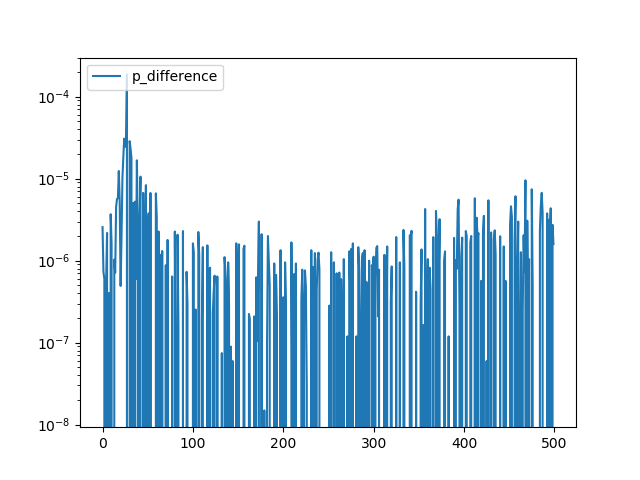
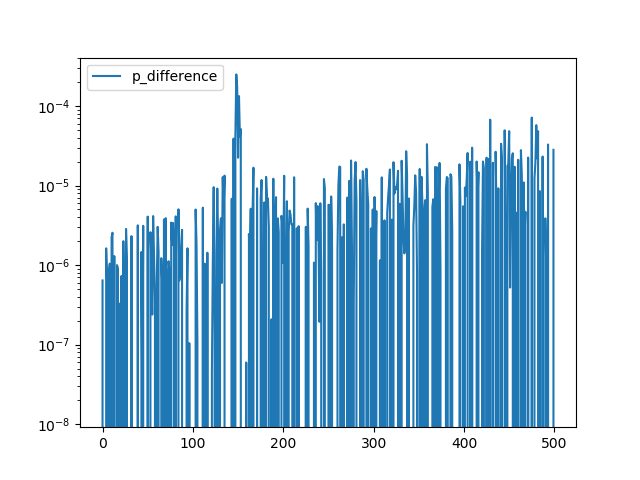
Loss has to be low

diff --git a/dynamics/correlation.py b/dynamics/correlation.py
@@ -10,8 +10,8 @@ N, D_in, H, D_out = 64, 1000, 100, 10
 y_size, x_size, mid_dim = 100, 100, 1000
 
 # Create random input and output data
-x = np.random.randn(x_size, 20)
-y = np.random.randn(y_size, 20)
+x = np.random.randn(x_size, 1)
+y = np.random.randn(y_size, 1)
 
 # Randomly initialize weights
 w1 = np.random.randn(mid_dim, x_size)
@@ -36,7 +36,7 @@ for t in range(500):
 
     # Compute and print loss
     loss = np.square(y_pred - y).sum()
-    print(t, loss)
+    print(t, "loss = ",loss)
 
     # Backprop to compute gradients of w1 and w2 with respect to loss
     grad_y_pred = 2.0 * (y_pred - y)
@@ -54,6 +54,8 @@ for t in range(500):
     # P2 = grad_w2.dot(np.linalg.inv(w2_right))
     p1 = grad_w1[1][1] / w1_right[1][1] / 2
     p2 = grad_w2[1][1] / w2_right[1][1] / 2
+    print ("P1 value = ",p1)
+    print ("P2 value = ",p2)
     p_difference = np.linalg.norm(p1) - np.linalg.norm(p2)
     print ("P difference = ",p_difference)
     p_difference_list.append(p_difference)
@@ -89,6 +91,7 @@ plt.plot(x_axis,p_difference_list,label='p_difference')
 # plt.savefig('100_depth_weight_mean_without_xavier_linear_activation')
 plt.legend(loc='upper left')
 plt.yscale('log')
+# plt.show()
 plt.savefig('learning_rate_%s_learning_dynamics_difference' % learning_rate)
 
 
